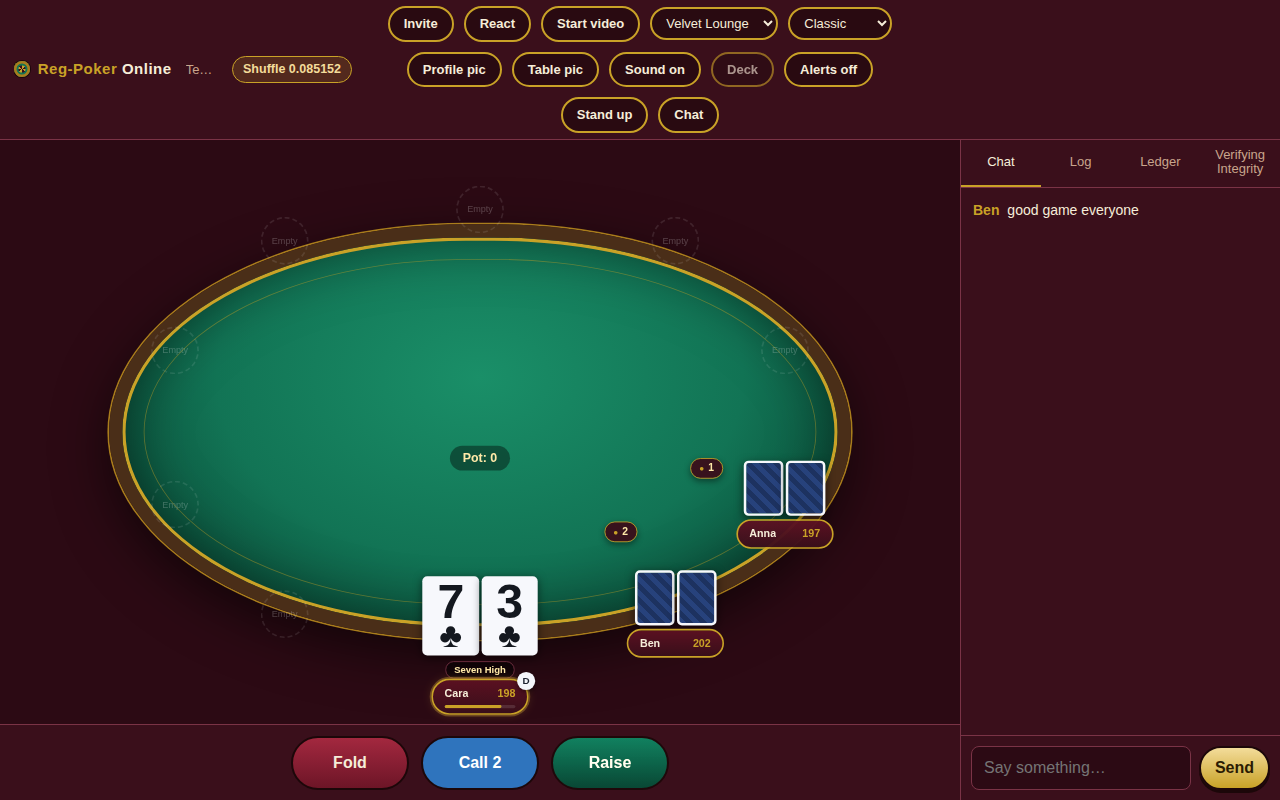
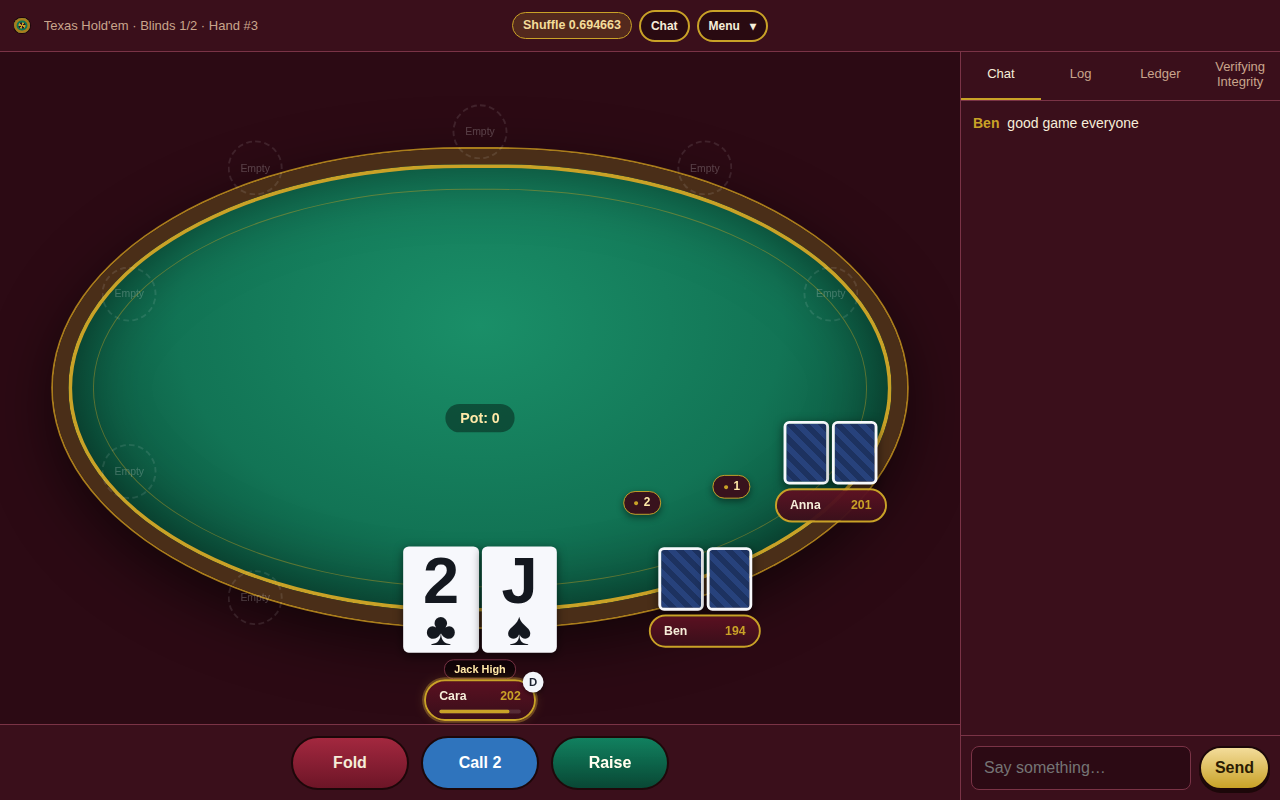
Fold the top-bar controls behind a caret menu; the height goes to your hand
The bar now keeps exactly three things inline: the shuffle chip, Chat (whose
unread and seat-request badges must stay visible at all times), and a Menu
button with a caret that turns when open. Everything else — invite, reactions,
video controls, the skin and name-font pickers, pictures, sound, deck, alerts,
host controls, stand up — lives in a dropdown sheet under the bar.

The sheet is fixed-positioned and anchored to the bar's measured bottom, so
neither the phone bar's own scrolling nor the grid row can clip it. It closes
on outside click, on Escape, and behind any one-shot action; pickers keep it
open, since choosing a font is not being done with the menu. On a phone it is
a two-column list.

What the collapse buys: the bar is one ~52px row on every screen instead of up
to four. The table takes the height back automatically — iPad portrait felt
cover went from 38% to 44%, laptop from 32% to 35% — and your own hole cards,
the main pair on the table, grow from 1.42x to 1.66x of a seat card. On phones
they stay at 1.42x: the phone bar was already one row, so nothing was freed
there, and at 1.66x your cards started brushing the neighbouring seat's.

The smoke test drives everything through the sheet the way a player would —
open, pick, watch it close — and the skin-geometry check still passes with the
same byte-identical layout across all three skins.

Verified: 828 unit assertions, 49 smoke checks, all-variant soak, and the 7
[…]

diff --git a/test/smoke-ui.js b/test/smoke-ui.js
@@ -46,6 +46,16 @@ async function check(name, cond) {
   }
 }
 
+// The table controls live behind the Menu caret; anything inside the sheet
+// needs it open before Playwright can see it. One-shot buttons close it again.
+async function openMenu(page) {
+  const open = await page.evaluate(
+    () => document.getElementById('menu-toggle')?.getAttribute('aria-expanded') === 'true'
+  );
+  if (!open) await page.click('#menu-toggle');
+  await page.waitForSelector('#top-menu:not(.hidden)');
+}
+
 // ---- boot server ----
 
 const { httpServer } = buildServer();
@@ -121,8 +131,10 @@ try {
     await anna.evaluate(() => !document.getElementById('table').classList.contains('upright')));
 
   // ---- in-app webcam + voice: a seated player can turn it on ----
+  await openMenu(anna);
   await anna.waitForSelector('#av-join:not(.hidden)');
   await anna.click('#av-join');
+  await openMenu(anna);
   await anna.waitForSelector('#av-live:not(.hidden)');
   await anna.waitForFunction(() => {
     const v = document.querySelector('#seats-layer video.seat-cam.mine');
@@ -130,8 +142,10 @@ try {
   }, { timeout: 15000 });
   await check('a seated player can turn on their webcam at their seat', true);
   await anna.click('#av-leave');
+  await openMenu(anna);
   await anna.waitForSelector('#av-join:not(.hidden)');
   await check('leaving video restores the Video button', true);
+  await anna.keyboard.press('Escape');
 
   // ---- two friends join via the invite link ----
   const ben = await newPage('ben');
@@ -191,6 +205,7 @@ try {
   await check('a hand played to a finish (winner shown)', winnerSeen);
 
   // ---- 747 Poker: switch the game mid-session and play a dealer hand ----
+  await openMenu(anna);
   await anna.click('#host-menu-btn');
   await anna.waitForSelector('#host-modal:not(.hidden)');
   await anna.selectOption('#h-variant', '747');
@@ -241,6 +256,7 @@ try {
 
   // Back to hold'em for the rest of the run — and the riding pot (if the
   // dealer swept) must liquidate without breaking anything.
+  await openMenu(anna);
   await anna.click('#host-menu-btn');
   await anna.waitForSelector('#host-modal:not(.hidden)');
   await anna.selectOption('#h-variant', 'holdem');
@@ -248,6 +264,7 @@ try {
   await anna.click('#h-done');
 
   // ---- emoji reactions reach the other players ----
+  await openMenu(ben);
   await ben.click('#react-btn');
   await ben.waitForSelector('#react-picker:not(.hidden)');
   await ben.click('.react-option[data-emoji="🔥"]');
@@ -462,6 +479,7 @@ try {
   await check('wrong password shows an error and does not sign in', true);
 
   // ---- four-color deck toggle ----
+  await openMenu(anna);
   await anna.click('#deck-toggle');
   await check('four-color deck toggles on',
     await anna.evaluate(() => document.body.classList.contains('four-color')));
@@ -473,6 +491,7 @@ try {
     (await anna.locator('.card[class*="suit-"]').count()) > 0);
 
   // ---- host can change the game mid-session ----
+  await openMenu(anna);
   await anna.click('#host-menu-btn');
   await anna.waitForSelector('#host-modal:not(.hidden)');
   await check('host modal offers a game selector',
@@ -523,7 +542,9 @@ try {
   const velvetGeo = await geometry();
   const velvetFelt = await anna.evaluate(() =>
     getComputedStyle(document.documentElement).getPropertyValue('--felt').trim());
+  await openMenu(anna);
   await anna.selectOption('#skin', 'tour');
+  await anna.keyboard.press('Escape'); // geometry is compared with the sheet shut, like the baseline
   await anna.waitForTimeout(300);
   const tourFelt = await anna.evaluate(() =>
     getComputedStyle(document.documentElement).getPropertyValue('--felt').trim());
@@ -572,7 +593,9 @@ try {
   await check(`no colour token is left on the Velvet value in every skin (${JSON.stringify(sharedColours)})`,
     sharedColours.length === 0);
 
+  await openMenu(anna);
   await anna.selectOption('#skin', 'velvet');
+  await anna.keyboard.press('Escape');
   await anna.waitForTimeout(200);
 
   // ---- tournament format lives in the create pop-up, cash game is default ----

diff --git a/public/css/table.css b/public/css/table.css
@@ -92,6 +92,59 @@ body.disconnected::after {
 /* The identity track and the counterweight share the leftover width equally,
    which is what puts the buttons on the screen's centre line rather than on
    the centre of whatever space the badges happened to leave. */
+/* The caret on the Menu button turns when the sheet is open. */
+#menu-toggle .caret {
+  display: inline-block;
+  margin-left: 2px;
+  transition: transform 0.18s ease;
+}
+
+#menu-toggle[aria-expanded='true'] .caret {
+  transform: rotate(180deg);
+}
+
+#menu-toggle[aria-expanded='true'] {
+  background: var(--ghost-hover);
+  border-color: var(--accent-lite);
+}
+
+/* The dropdown sheet: every control that used to crowd the bar, laid out as a
+   grid under it. Fixed-positioned (top set in JS from the bar's real height)
+   so neither the bar's own scrolling on a phone nor the grid row can clip it. */
+.top-menu {
+  position: fixed;
+  left: 0;
+  right: 0;
+  z-index: 150;
+  display: grid;
+  grid-template-columns: repeat(auto-fill, minmax(150px, 1fr));
+  gap: 8px;
+  padding: 12px 14px 14px;
+  background: var(--bg-panel);
+  border-bottom: 2px solid var(--accent);
+  box-shadow: 0 18px 40px rgba(0, 0, 0, 0.5);
+  max-height: 70vh;
+  overflow-y: auto;
+}
+
+.top-menu.hidden {
+  display: none;
+}
+
+/* Inside the sheet every control stretches to its cell, so the grid reads as
+   tidy rows rather than a ragged pile of pills. */
+.top-menu .top-btn,
+.top-menu .top-select,
+.top-menu .react-wrap,
+.top-menu .react-wrap .top-btn {
+  width: 100%;
+}
+
+/* The live-video cluster keeps its buttons together on one grid row span. */
+.top-menu .av-live {
+  display: contents;
+}
+
 /* The identity track keeps whatever width its content needs — clipping it hid
    the account chip completely, which is the table's only link to /me. The
    counterweight opposite is matched to it in JS (syncTopBar), so the controls
@@ -385,10 +438,12 @@ body.disconnected::after {
   box-shadow: 0 3px 10px rgba(0, 0, 0, 0.5);
 }
 
+/* Your own hand is the main pair on the table — with the controls folded away
+   behind the caret, the height the bar gave back goes to these. */
 .cards-fan.mine .card {
-  --face: calc(var(--card-w) * 1.42);
-  width: calc(var(--card-w) * 1.42);
-  height: calc(var(--card-h) * 1.42);
+  --face: calc(var(--card-w) * 1.66);
+  width: calc(var(--card-w) * 1.66);
+  height: calc(var(--card-h) * 1.66);
 }
 
 .nameplate {
@@ -1274,6 +1329,22 @@ td.dim { color: var(--text-dim); }
     padding: 5px 9px;
     font-size: 11.5px;
     white-space: nowrap;
+  }
+
+  /* A phone's bar was already one row, so the caret freed no height here — and
+     at 1.66x your own cards start brushing the neighbouring seat's. The bigger
+     hand is a big-screen luxury. */
+  .cards-fan.mine .card {
+    --face: calc(var(--card-w) * 1.42);
+    width: calc(var(--card-w) * 1.42);
+    height: calc(var(--card-h) * 1.42);
+  }
+
+  /* The sheet's grid is roomy on a phone; full-width cells read as a list. */
+  .top-menu {
+    grid-template-columns: repeat(2, 1fr);
+    gap: 7px;
+    padding: 10px;
   }
 
   #table-area { padding: 4px; }

diff --git a/public/game.html b/public/game.html
@@ -51,6 +51,15 @@
       </div>
       <div class="top-actions">
         <button id="fair-chip" class="fair-chip hidden" title="Provably-fair shuffle — click for details"></button>
+        <button id="panel-toggle" class="btn-ghost btn top-btn" title="Chat and logs">Chat<span id="unread-badge" class="hidden"></span><span id="seatreq-badge" class="req-badge hidden"></span></button>
+        <button id="menu-toggle" class="btn-ghost btn top-btn" title="Everything else about the table"
+                aria-expanded="false" aria-controls="top-menu" aria-haspopup="true">Menu <span class="caret" aria-hidden="true">▾</span></button>
+      </div>
+      <div class="top-spacer" aria-hidden="true"></div>
+
+      <!-- Everything that used to crowd the bar lives behind the caret, so the
+           bar stays one row and the felt gets the height back. -->
+      <div id="top-menu" class="top-menu hidden">
         <button id="copy-link" class="btn-ghost btn top-btn" title="Copy the invite link">Invite</button>
         <span class="react-wrap">
           <button id="react-btn" class="btn-ghost btn top-btn" title="Send a reaction">React</button>
@@ -75,9 +84,7 @@
         <button id="push-bell" class="btn-ghost btn top-btn" title="Alerts when it's your turn and you're away">Alerts</button>
         <button id="host-menu-btn" class="btn-ghost btn top-btn hidden" title="Host controls">Host</button>
         <button id="leave-btn" class="btn-ghost btn top-btn hidden" title="Leave your seat">Stand up</button>
-        <button id="panel-toggle" class="btn-ghost btn top-btn" title="Chat and logs">Chat<span id="unread-badge" class="hidden"></span><span id="seatreq-badge" class="req-badge hidden"></span></button>
       </div>
-      <div class="top-spacer" aria-hidden="true"></div>
     </header>
 
     <main id="table-area">

diff --git a/public/js/game.js b/public/js/game.js
@@ -354,6 +354,50 @@ document.getElementById('cam-frame-input')?.addEventListener('change', (e) => {
   e.target.value = '';
 });
 
+// ---- the caret menu ----
+// The bar keeps three things: the shuffle chip, Chat (whose badges must stay
+// visible), and this caret. Everything else lives in the sheet below it.
+const menuToggle = document.getElementById('menu-toggle');
+const topMenu = document.getElementById('top-menu');
+
+function setMenu(open) {
+  if (!menuToggle || !topMenu) return;
+  menuToggle.setAttribute('aria-expanded', String(open));
+  topMenu.classList.toggle('hidden', !open);
+  if (open) {
+    // Fixed-positioned so nothing clips it; anchored to the bar's real bottom.
+    topMenu.style.top = `${document.getElementById('top-bar').getBoundingClientRect().bottom}px`;
+  }
+}
+
+function menuOpen() {
+  return menuToggle?.getAttribute('aria-expanded') === 'true';
+}
+
+menuToggle?.addEventListener('click', (e) => {
+  e.stopPropagation();
+  setMenu(!menuOpen());
+});
+
+// A one-shot action closes the sheet behind it; pickers and file inputs stay
+// open, because choosing from them is not "done with the menu".
+topMenu?.addEventListener('click', (e) => {
+  const btn = e.target.closest('button');
+  if (!btn) return;
+  if (btn.id === 'react-btn') return; // opens its own picker inside the sheet
+  setMenu(false);
+});
+
+document.addEventListener('click', (e) => {
+  if (!menuOpen()) return;
+  if (topMenu.contains(e.target) || menuToggle.contains(e.target)) return;
+  setMenu(false);
+});
+
+document.addEventListener('keydown', (e) => {
+  if (e.key === 'Escape' && menuOpen()) setMenu(false);
+});
+
 // ---- how the table looks on YOUR screen ----
 // Nobody else is affected: this is a device preference, applied before the
 // first paint so the table never flashes the wrong room.
